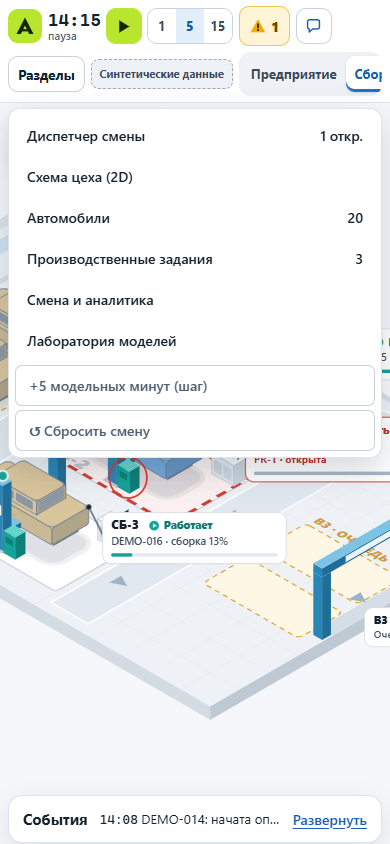
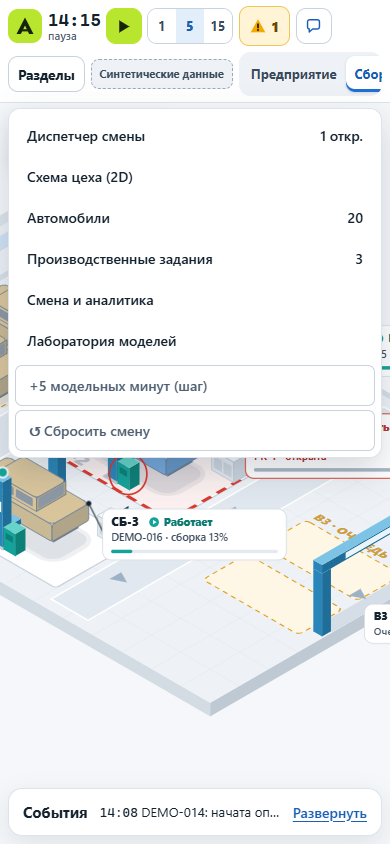
fix: fit mobile cards and menus within viewport

diff --git a/public/styles.css b/public/styles.css
@@ -568,6 +568,7 @@ button.secondary{background:#F4F8FD;border-color:#B9CDE6;color:var(--link);font-
 @media(max-width:1100px){
   .topbar{height:auto;flex-wrap:wrap;padding:8px 10px;row-gap:8px}
   .spaces{order:5;width:100%;overflow-x:auto}.grow{display:none}
+  .menu-list{max-height:60vh;max-height:60dvh;overflow-y:auto;overscroll-behavior:contain}
   .space-view{height:calc(100vh - 112px)}
   .side{position:absolute;left:0;right:0;bottom:0;margin:0;max-height:62%;border-radius:20px 20px 0 0;flex:none}
   .hud{max-width:240px}.hud-card .space-sub{display:none}.hint{display:none}
@@ -576,7 +577,7 @@ button.secondary{background:#F4F8FD;border-color:#B9CDE6;color:var(--link);font-
   .topbar{gap:6px;padding:6px 8px}.planfact{display:none}.timebox{gap:5px}.speed{height:36px}.speed button{width:28px}.icon-btn{width:36px;height:36px}.brand-mark{width:34px;height:34px}
   /* Anchor the dropdown to the header when alerts wrap its trigger to a new row. */
   .menu{position:static}
-  .menu-list{left:8px;right:8px;top:calc(100% + 6px);width:auto;max-height:60vh;max-height:60dvh;overflow-y:auto;overscroll-behavior:contain}
+  .menu-list{left:8px;right:8px;top:calc(100% + 6px);width:auto}
   .menu summary{height:36px;padding:0 9px}.synthetic{order:4;height:30px;font-size:11px}.spaces{order:5;width:auto;flex:1 1 0;min-width:0}
   #diag-toggle-wrap{display:none!important}.clockbox strong{font-size:18px}
   .space-view{height:calc(100vh - 96px)}
@@ -588,5 +589,12 @@ button.secondary{background:#F4F8FD;border-color:#B9CDE6;color:var(--link);font-
   .cam{right:8px;top:8px}
   .opt-grid{grid-template-columns:repeat(2,minmax(0,1fr))}
   .kv div{grid-template-columns:1fr;gap:0}
+}
+/* Let the actual wrapped header determine the remaining mobile scene height. */
+@media(max-width:1100px){
+  body:has(#view-space:not([hidden])){height:100vh;height:100dvh;display:flex;flex-direction:column}
+  body:has(#view-space:not([hidden]))>.topbar,body:has(#view-space:not([hidden]))>#error{flex:none}
+  body:has(#view-space:not([hidden]))>main{display:flex;flex:1;min-height:0}
+  body:has(#view-space:not([hidden])) .space-view{flex:1;min-height:0;height:auto}
 }
 @media(prefers-reduced-motion:reduce){.sc-pulse{animation:none;opacity:0}.space-stage.enter{animation:none}}

diff --git a/T2_VALIDATION.md b/T2_VALIDATION.md
@@ -8,6 +8,6 @@
 
 Снимки: screenshots/t2-mobile-alert-menu-before.png, screenshots/t2-mobile-alert-menu-after.png, screenshots/t2-mobile-card-after.png.
 
-Ограничения: карточка A1 уже открывается снизу без горизонтального переполнения, но её низ y=847 при высоте экрана 844 из-за существующего расчёта высоты сцены. При 844×390 немобильное меню выходит ниже экрана. Эти вопросы требуют сверки с общей адаптивностью волны 1.
+Дополнительное исправление: высота мобильной сцены определяется оставшимся пространством после фактической шапки, а не фиксированным вычитанием. Карточка A1 открывается снизу; её нижний край совпадает с высотой экрана на 390×844, 390×600, 320×568 и 844×390. Меню на 844×390 ограничено высотой и прокручивается (нижний край 298.75 px). Проверены закрытие карточки, подтверждение сброса и обычный поток страницы в старом разделе заданий. Повторно пройдены 86/86 тестов и сборка. Desktop 1440×900 также проверен. Реальное мобильное устройство и экранный диктор не проверены.
 
 Полного docs/tasks/tony-2026-10-08.md пока нет в origin/main после fetch. В main меню называется «Разделы», отдельного «Управления» нет. T2 не завершена: нужны общая вводная, полный блок T2 и интеграционная приёмка на необходимых результатах T1/T4/T6. PR должен оставаться draft до этой проверки.
